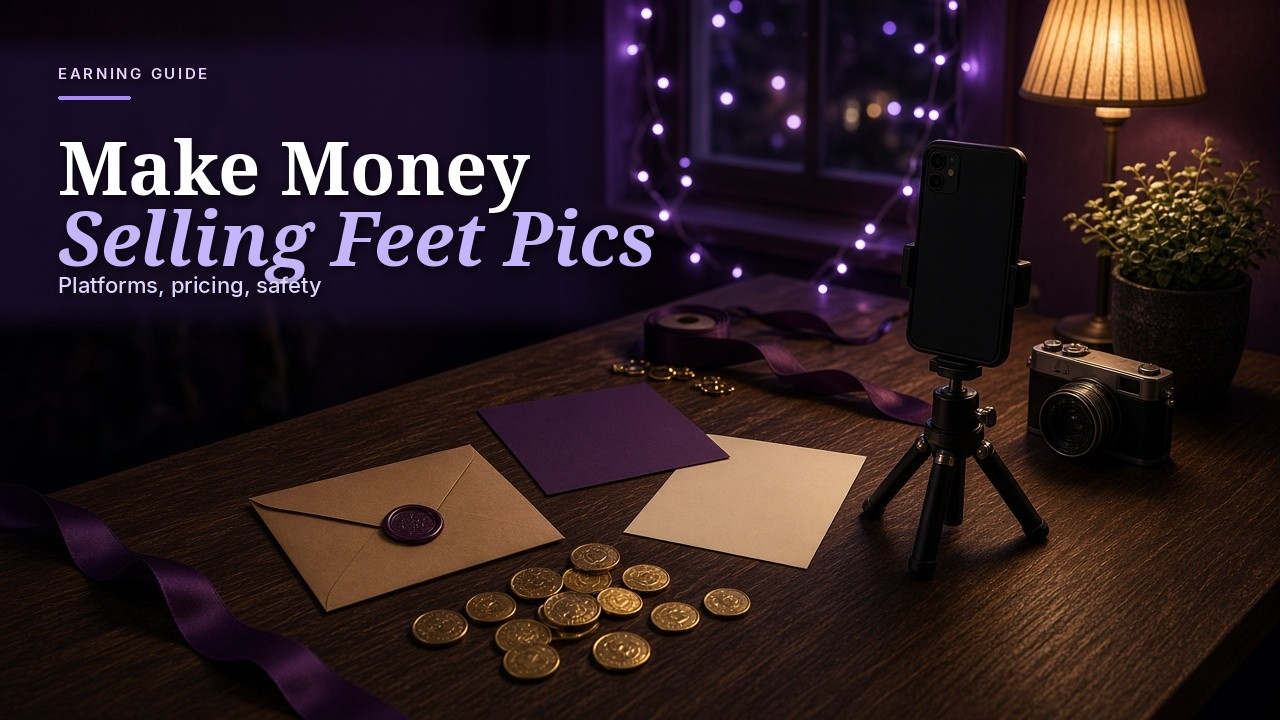
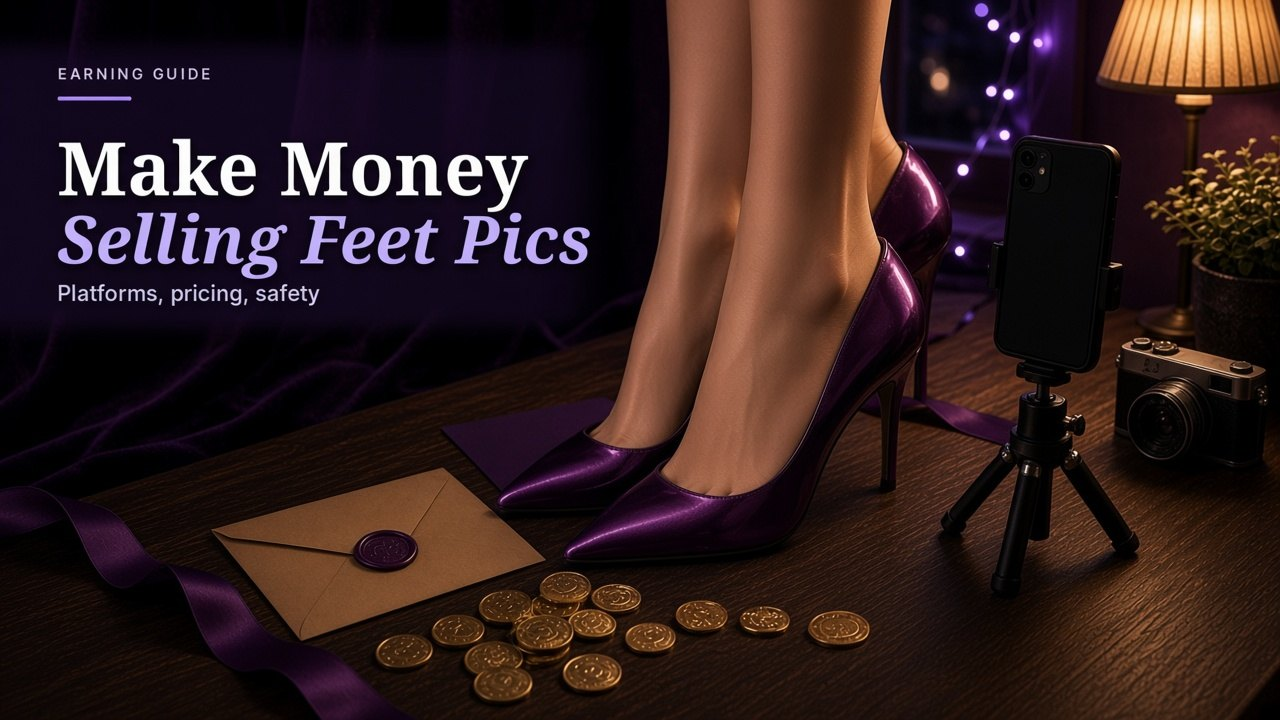
Match VIP card full-bleed covers to each guide title (#29)
* Use each VIP cover as the full card background.

The Sell Feet Pics hub cards were still white panels with a small top thumb. Each guide cover now fills the card, with a plum scrim so the number, title, blurb, and button stay readable.

* Match feet-guide covers to feet, not a generic desk.

How to Make Money Selling Feet Pics and Where to Sell Feet Pics for Free were plum still lifes with no feet. Those two covers now show feet in the same editorial style. The other 17 topic covers stay as they are.

---------

diff --git a/category/sell-feet-pics/index.html b/category/sell-feet-pics/index.html
@@ -470,15 +470,17 @@ details.faq>summary::after{display:none!important}
 .fee-compare td{color:var(--text);font-size:14.5px}
 .fee-compare tbody tr:nth-child(even){background:var(--bg-2)}
 .vip-grid{display:grid;grid-template-columns:repeat(3,minmax(0,1fr));gap:16px}
-.vip-rich{display:flex;flex-direction:column;background:var(--card);color:var(--text);border:1px solid var(--line);border-top:4px solid #7C3AED;border-radius:16px;padding:18px 18px 16px;min-height:100%}
+.vip-rich{position:relative;isolation:isolate;display:flex;flex-direction:column;overflow:hidden;color:#fff;border:1px solid rgba(196,181,253,.4);border-top:4px solid #C4B5FD;border-radius:16px;padding:18px 18px 16px;min-height:100%;background-color:#140c24;background-size:cover;background-position:center;background-repeat:no-repeat}
+.vip-rich::before{content:"";position:absolute;inset:0;z-index:0;pointer-events:none;background:linear-gradient(180deg,rgba(20,12,36,.42) 0%,rgba(20,12,36,.72) 46%,rgba(8,5,16,.92) 100%)}
+.vip-rich>*{position:relative;z-index:1}
 .vip-rich-top{display:flex;align-items:center;justify-content:space-between;margin-bottom:10px}
-.vip-num{font-family:var(--serif);font-size:22px;color:#6D28D9}
-.vip-badge{font-size:11px;font-weight:800;letter-spacing:.08em;text-transform:uppercase;color:#4c1d95;background:#ede9fe;border-radius:999px;padding:4px 8px}
-:root[data-theme="dark"] .vip-badge{color:#f5f3ff;background:#4c1d95}
+.vip-num{font-family:var(--serif);font-size:22px;color:#f5f3ff}
+.vip-badge{font-size:11px;font-weight:800;letter-spacing:.08em;text-transform:uppercase;color:#f5f3ff;background:rgba(76,29,149,.72);border:1px solid rgba(196,181,253,.55);border-radius:999px;padding:4px 8px}
+:root[data-theme="dark"] .vip-badge{color:#f5f3ff;background:rgba(76,29,149,.72)}
 .vip-rich h3{margin:0 0 8px;font-size:18px;line-height:1.3}
-.vip-rich h3 a{color:var(--text);text-decoration:none}
-.vip-rich h3 a:hover{color:#6D28D9}
-.vip-rich p{margin:0 0 14px;color:var(--muted);flex:1;font-size:14.5px}
+.vip-rich h3 a{color:#fff;text-decoration:none}
+.vip-rich h3 a:hover{color:#e9d5ff}
+.vip-rich p{margin:0 0 14px;color:#f4efff;flex:1;font-size:14.5px}
 .vip-read{align-self:flex-start;background:#7C3AED;color:#fff!important;text-decoration:none!important;font-weight:700;border-radius:999px;padding:8px 14px;font-size:13px}
 .vip-read:hover{background:#6D28D9}
 .related-cats{padding-top:10px}
@@ -604,7 +606,7 @@ details.faq>summary::after{display:none!important}
     </section>
     <section class="vip-guides" aria-labelledby="guides-h">
       <div class="section-head"><h2 id="guides-h">All VIP guides</h2></div>
-      <div class="vip-grid"><article class="vip-rich"><a class="vip-thumb" style="background-image:url('/best-platforms-for-content-creators/cover.jpg')" href="https://www.dark-ero.store/best-platforms-for-content-creators/"><img src="/best-platforms-for-content-creators/cover.jpg" alt="Best Creator Platforms for Beginners 2026: 12 Top Picks Ranked"></a><div class="vip-rich-top"><span class="vip-num">01</span><span class="vip-badge">VIP guide</span></div><h3><a href="https://www.dark-ero.store/best-platforms-for-content-creators/">Best Creator Platforms for Beginners 2026: 12 Top Picks Ranked</a></h3><p>New to creating? Compare 12 beginner-friendly creator platforms by fees, setup time and first-sale speed, from FeetFinder to OnlyFans, Fansly and Patreon.</p><a class="vip-read" href="https://www.dark-ero.store/best-platforms-for-content-creators/">Read guide</a></article><article class="vip-rich"><a class="vip-thumb" style="background-image:url('/best-sites-to-sell-feet-pics/cover.jpg')" href="https://www.dark-ero.store/best-sites-to-sell-feet-pics/"><img src="/best-sites-to-sell-feet-pics/cover.jpg" alt="Top 10 Best Sites to Sell Feet Pics in 2026: Fees &amp; Payouts"></a><div class="vip-rich-top"><span class="vip-num">02</span><span class="vip-badge">VIP guide</span></div><h3><a href="https://www.dark-ero.store/best-sites-to-sell-feet-pics/">Top 10 Best Sites to Sell Feet Pics in 2026: Fees &amp; Payouts</a></h3><p>The 10 best sites to sell feet pics in 2026, ranked by buyer traffic, seller fees, payout speed and safety, from FeetFinder and Fun With Feet to Fansly.</p><a class="vip-read" href="https://www.dark-ero.store/best-sites-to-sell-feet-pics/">Read guide</a></article><article class="vip-rich"><a class="vip-thumb" style="background-image:url('/spicyranked-review/cover.jpg')" href="https://www.dark-ero.store/spicyranked-review/"><img src="/spicyranked-review/cover.jpg" alt="SpicyRanked Review 2026: Scores, Rankings &amp; Trust"></a><div class="vip-rich-top"><span class="vip-num">03</span><span class="vip-badge">VIP guide</span></div><h3><a href="https://www.dark-ero.store/spicyranked-review/">SpicyRanked Review 2026: Scores, Rankings &amp; Trust</a></h3><p>SpicyRanked review 2026: how Heat Scores work, what best-of lists cover, affiliate disclosures, who the directory helps — plus trust and safety notes.</p><a class="vip-read" href="https://www.dark-ero.store/spicyranked-review/">Read guide</a></article><article class="vip-rich"><a class="vip-thumb" style="background-image:url('/how-to-make-money-selling-feet-pics/cover.jpg')" href="https://www.dark-ero.store/how-to-make-money-selling-feet-pics/"><img src="/how-to-make-money-selling-feet-pics/cover.jpg" alt="How to Make Money Selling Feet Pics (2026 Guide)"></a><div class="vip-rich-top"><span class="vip-num">04</span><span class="vip-badge">VIP guide</span></div><h3><a href="https://www.dark-ero.store/how-to-make-money-selling-feet-pics/">How to Make Money Selling Feet Pics (2026 Guide)</a></h3><p>Learn how to make money selling feet pics in 2026: realistic earnings, platforms, pricing, photo tips, payouts and safety for adults 18+.</p><a class="vip-read" href="https://www.dark-ero.store/how-to-make-money-selling-feet-pics/">Read guide</a></article><article class="vip-rich"><a class="vip-thumb" style="background-image:url('/how-to-sell-feet-pics-without-getting-scammed/cover.jpg')" href="https://www.dark-ero.store/how-to-sell-feet-pics-without-getting-scammed/"><img src="/how-to-sell-feet-pics-without-getting-scammed/cover.jpg" alt="How to Sell Feet Pics Without Getting Scammed (2026)"></a><div class="vip-rich-top"><span class="vip-num">05</span><span class="vip-badge">VIP guide</span></div><h3><a href="https://www.dark-ero.store/how-to-sell-feet-pics-without-getting-scammed/">How to Sell Feet Pics Without Getting Scammed (2026)</a></h3><p>How to sell feet pics without getting scammed in 2026: red flags, safe payments, ID checks vs buyer chats, recovery steps and safer marketplaces.</p><a class="vip-read" href="https://www.dark-ero.store/how-to-sell-feet-pics-without-getting-scammed/">Read guide</a></article><article class="vip-rich"><a class="vip-thumb" style="background-image:url('/jerkay-review/cover.jpg')" href="https://www.dark-ero.store/jerkay-review/"><img src="/jerkay-review/cover.jpg" alt="Jerkay Review 2026: Is This Free Gay Cam Chat Safe?"></a><div class="vip-rich-top"><span class="vip-num">06</span><span class="vip-badge">VIP guide</span></div><h3><a href="https://www.dark-ero.store/jerkay-review/">Jerkay Review 2026: Is This Free Gay Cam Chat Safe?</a></h3><p>Is Jerkay safe? Our 2026 review tests the free, no-signup gay cam chat for privacy, age checks and recording risks, plus safety tips and alternatives.</p><a class="vip-read" href="https://www.dark-ero.store/jerkay-review/">Read guide</a></article><article class="vip-rich"><a class="vip-thumb" style="background-image:url('/feetfinder-review/cover.jpg')" href="https://www.dark-ero.store/feetfinder-review/"><img src="/feetfinder-review/cover.jpg" alt="FeetFinder Review 2026: Is It Legit? Fees, Payouts &amp; Safety"></a><div class="vip-rich-top"><span class="vip-num">07</span><span class="vip-badge">VIP guide</span></div><h3><a href="https://www.dark-ero.store/feetfinder-review/">FeetFinder Review 2026: Is It Legit? Fees, Payouts &amp; Safety</a></h3><p>FeetFinder review 2026: is FeetFinder legit or a scam? Seller fees from $4.99, Basic vs Premium, $30 payout rules, ID verification plus safety advice.</p><a class="vip-read" href="https://www.dark-ero.store/feetfinder-review/">Read guide</a></article><article class="vip-rich"><a class="vip-thumb" style="background-image:url('/sugar-daddy-apps/cover.jpg')" href="https://www.dark-ero.store/sugar-daddy-apps/"><img src="/sugar-daddy-apps/cover.jpg" alt="Sugar Daddy Apps That Send Money Without Meeting (2026)"></a><div class="vip-rich-top"><span class="vip-num">08</span><span class="vip-badge">VIP guide</span></div><h3><a href="https://www.dark-ero.store/sugar-daddy-apps/">Sugar Daddy Apps That Send Money Without Meeting (2026)</a></h3><p>10 sugar daddy apps that send money without meeting, reviewed honestly: what each allows, who pays, how scams work and how to stay safe. Adults 18+ only.</p><a class="vip-read" href="https://www.dark-ero.store/sugar-daddy-apps/">Read guide</a></article><article class="vip-rich"><a class="vip-thumb" style="background-image:url('/sites-like-onlyfans/cover.jpg')" href="https://www.dark-ero.store/sites-like-onlyfans/"><img src="/sites-like-onlyfans/cover.jpg" alt="Sites Like OnlyFans to Make Money: 12 Real Options"></a><div class="vip-rich-top"><span class="vip-num">09</span><span class="vip-badge">VIP guide</span></div><h3><a href="https://www.dark-ero.store/sites-like-onlyfans/">Sites Like OnlyFans to Make Money: 12 Real Options</a></h3><p>Compare sites like OnlyFans to make money in 2026: platform cuts, payout minimums, content rules and which creator sites suit beginners, SFW or fetish.</p><a class="vip-read" href="https://www.dark-ero.store/sites-like-onlyfans/">Read guide</a></article><article class="vip-rich"><a class="vip-thumb" style="background-image:url('/sell-feet-pics/cover.jpg')" href="https://www.dark-ero.store/sell-feet-pics/"><img src="/sell-feet-pics/cover.jpg" alt="How to Sell Feet Pics in 2026: Platforms, Prices &amp; Safety"></a><div class="vip-rich-top"><span class="vip-num">10</span><span class="vip-badge">VIP guide</span></div><h3><a href="https://www.dark-ero.store/sell-feet-pics/">How to Sell Feet Pics in 2026: Platforms, Prices &amp; Safety</a></h3><p>Learn how to sell feet pics in 2026: where to sell, what to charge, how to find buyers, stay anonymous, avoid scams and handle taxes. Beginner-friendly guide.</p><a class="vip-read" href="https://www.dark-ero.store/sell-feet-pics/">Read guide</a></article><article class="vip-rich"><a class="vip-thumb" style="background-image:url('/where-to-sell-feet-pics-for-free/cover.jpg')" href="https://www.dark-ero.store/where-to-sell-feet-pics-for-free/"><img src="/where-to-sell-feet-pics-for-free/cover.jpg" alt="Where to Sell Feet Pics for Free: 2026 Sites, Fees &amp; Rules"></a><div class="vip-rich-top"><span class="vip-num">11</span><span class="vip-badge">VIP guide</span></div><h3><a href="https://www.dark-ero.store/where-to-sell-feet-pics-for-free/">Where to Sell Feet Pics for Free: 2026 Sites, Fees &amp; Rules</a></h3><p>Where to sell feet pics for free in 2026: which free feet pic selling platforms really cost nothing, what they take in commission, and which apps ban sales.</p><a class="vip-read" href="https://www.dark-ero.store/where-to-sell-feet-pics-for-free/">Read guide</a></article><article class="vip-rich"><a class="vip-thumb" style="background-image:url('/footly-review/cover.jpg')" href="https://www.dark-ero.store/footly-review/"><img src="/footly-review/cover.jpg" alt="Footly Review 2026: Seller Plans, Fees, Payouts &amp; Safety"></a><div class="vip-rich-top"><span class="vip-num">12</span><span class="vip-badge">VIP guide</span></div><h3><a href="https://www.dark-ero.store/footly-review/">Footly Review 2026: Seller Plans, Fees, Payouts &amp; Safety</a></h3><p>Footly review 2026: Rising, Spotlight and Icon plans, 5–15% sale fees, $10 weekly payouts, Ondato ID checks, privacy terms and how it compares to FeetFinder.</p><a class="vip-read" href="https://www.dark-ero.store/footly-review/">Read guide</a></article><article class="vip-rich"><a class="vip-thumb" style="background-image:url('/ablx-review/cover.jpg')" href="https://www.dark-ero.store/ablx-review/"><img src="/ablx-review/cover.jpg" alt="ABLX Review 2026: Credit Prices, Deepfake Risk and Safety"></a><div class="vip-rich-top"><span class="vip-num">13</span><span class="vip-badge">VIP guide</span></div><h3><a href="https://www.dark-ero.store/ablx-review/">ABLX Review 2026: Credit Prices, Deepfake Risk and Safety</a></h3><p>ABLX review: we check its uncensored AI video credits, $2.99 to $79.99 packs, real photo upload risks, age gate, privacy gaps and better alternatives.</p><a class="vip-read" href="https://www.dark-ero.store/ablx-review/">Read guide</a></article><article class="vip-rich"><a class="vip-thumb" style="background-image:url('/ai-angels-review/cover.jpg')" href="https://www.dark-ero.store/ai-angels-review/"><img src="/ai-angels-review/cover.jpg" alt="AI Angels Review 2026: Pricing, Credits, Safety and Risks"></a><div class="vip-rich-top"><span class="vip-num">14</span><span class="vip-badge">VIP guide</span></div><h3><a href="https://www.dark-ero.store/ai-angels-review/">AI Angels Review 2026: Pricing, Credits, Safety and Risks</a></h3><p>AI Angels review: we unpack its AI girlfriend roster, $3.99 to $39.99 plans, credits, 24-hour refunds, weak age gate and safer alternatives.</p><a class="vip-read" href="https://www.dark-ero.store/ai-angels-review/">Read guide</a></article><article class="vip-rich"><a class="vip-thumb" style="background-image:url('/kindroid-review/cover.jpg')" href="https://www.dark-ero.store/kindroid-review/"><img src="/kindroid-review/cover.jpg" alt="Kindroid Review 2026: Price, Memory, No Free Plan &amp; Safety"></a><div class="vip-rich-top"><span class="vip-num">15</span><span class="vip-badge">VIP guide</span></div><h3><a href="https://www.dark-ero.store/kindroid-review/">Kindroid Review 2026: Price, Memory, No Free Plan &amp; Safety</a></h3><p>Kindroid review: we cover its layered memory, calls, selfies, $13.99 Standard plan, costly add-ons, the end of the free tier, age checks and privacy.</p><a class="vip-read" href="https://www.dark-ero.store/kindroid-review/">Read guide</a></article><article class="vip-rich"><a class="vip-thumb" style="background-image:url('/secretundies-review/cover.jpg')" href="https://www.dark-ero.store/secretundies-review/"><img src="/secretundies-review/cover.jpg" alt="SecretUndies Review 2026: Seller Fees, Payouts and Safety"></a><div class="vip-rich-top"><span class="vip-num">16</span><span class="vip-badge">VIP guide</span></div><h3><a href="https://www.dark-ero.store/secretundies-review/">SecretUndies Review 2026: Seller Fees, Payouts and Safety</a></h3><p>SecretUndies review: we check seller plans from €4.97, 5% to 20% fees, €50 payouts, age checks, privacy and whether its tiny catalogue is worth it.</p><a class="vip-read" href="https://www.dark-ero.store/secretundies-review/">Read guide</a></article><article class="vip-rich"><a class="vip-thumb" style="background-image:url('/fapello-review/cover.jpg')" href="https://www.dark-ero.store/fapello-review/"><img src="/fapello-review/cover.jpg" alt="Fapello Review 2026: Is It Safe, Legal or Worth Avoiding?"></a><div class="vip-rich-top"><span class="vip-num">17</span><span class="vip-badge">VIP guide</span></div><h3><a href="https://www.dark-ero.store/fapello-review/">Fapello Review 2026: Is It Safe, Legal or Worth Avoiding?</a></h3><p>Fapello review: how its user uploads work, consent and copyright gaps, the Ofcom fine, pop-up ads, privacy risks and creator-paid alternatives.</p><a class="vip-read" href="https://www.dark-ero.store/fapello-review/">Read guide</a></article><article class="vip-rich"><a class="vip-thumb" style="background-image:url('/fikfap-review/cover.jpg')" href="https://www.dark-ero.store/fikfap-review/"><img src="/fikfap-review/cover.jpg" alt="FikFap Review 2026: Is It Safe, Free and Worth Using?"></a><div class="vip-rich-top"><span class="vip-num">18</span><span class="vip-badge">VIP guide</span></div><h3><a href="https://www.dark-ero.store/fikfap-review/">FikFap Review 2026: Is It Safe, Free and Worth Using?</a></h3><p>FikFap review: we explain its swipe-style adult short video feed, free access, web app vs risky APKs, privacy gaps, creator payouts and alternatives.</p><a class="vip-read" href="https://www.dark-ero.store/fikfap-review/">Read guide</a></article><article class="vip-rich"><a class="vip-thumb" style="background-image:url('/ourdream-ai-review/cover.jpg')" href="https://www.dark-ero.store/ourdream-ai-review/"><img src="/ourdream-ai-review/cover.jpg" alt="OurDream AI Review 2026: Price, DreamCoins, Safety &amp; Value"></a><div class="vip-rich-top"><span class="vip-num">19</span><span class="vip-badge">VIP guide</span></div><h3><a href="https://www.dark-ero.store/ourdream-ai-review/">OurDream AI Review 2026: Price, DreamCoins, Safety &amp; Value</a></h3><p>OurDream AI review: we break down its $19.99 plan, DreamCoin costs, NSFW chat, image and video tools, refund rules, age checks and top alternatives.</p><a class="vip-read" href="https://www.dark-ero.store/ourdream-ai-review/">Read guide</a></article></div>
+      <div class="vip-grid"><article class="vip-rich" style="background-image:url('/best-platforms-for-content-creators/cover.jpg')"><div class="vip-rich-top"><span class="vip-num">01</span><span class="vip-badge">VIP guide</span></div><h3><a href="https://www.dark-ero.store/best-platforms-for-content-creators/">Best Creator Platforms for Beginners 2026: 12 Top Picks Ranked</a></h3><p>New to creating? Compare 12 beginner-friendly creator platforms by fees, setup time and first-sale speed, from FeetFinder to OnlyFans, Fansly and Patreon.</p><a class="vip-read" href="https://www.dark-ero.store/best-platforms-for-content-creators/">Read guide</a></article><article class="vip-rich" style="background-image:url('/best-sites-to-sell-feet-pics/cover.jpg')"><div class="vip-rich-top"><span class="vip-num">02</span><span class="vip-badge">VIP guide</span></div><h3><a href="https://www.dark-ero.store/best-sites-to-sell-feet-pics/">Top 10 Best Sites to Sell Feet Pics in 2026: Fees &amp; Payouts</a></h3><p>The 10 best sites to sell feet pics in 2026, ranked by buyer traffic, seller fees, payout speed and safety, from FeetFinder and Fun With Feet to Fansly.</p><a class="vip-read" href="https://www.dark-ero.store/best-sites-to-sell-feet-pics/">Read guide</a></article><article class="vip-rich" style="background-image:url('/spicyranked-review/cover.jpg')"><div class="vip-rich-top"><span class="vip-num">03</span><span class="vip-badge">VIP guide</span></div><h3><a href="https://www.dark-ero.store/spicyranked-review/">SpicyRanked Review 2026: Scores, Rankings &amp; Trust</a></h3><p>SpicyRanked review 2026: how Heat Scores work, what best-of lists cover, affiliate disclosures, who the directory helps — plus trust and safety notes.</p><a class="vip-read" href="https://www.dark-ero.store/spicyranked-review/">Read guide</a></article><article class="vip-rich" style="background-image:url('/how-to-make-money-selling-feet-pics/cover.jpg')"><div class="vip-rich-top"><span class="vip-num">04</span><span class="vip-badge">VIP guide</span></div><h3><a href="https://www.dark-ero.store/how-to-make-money-selling-feet-pics/">How to Make Money Selling Feet Pics (2026 Guide)</a></h3><p>Learn how to make money selling feet pics in 2026: realistic earnings, platforms, pricing, photo tips, payouts and safety for adults 18+.</p><a class="vip-read" href="https://www.dark-ero.store/how-to-make-money-selling-feet-pics/">Read guide</a></article><article class="vip-rich" style="background-image:url('/how-to-sell-feet-pics-without-getting-scammed/cover.jpg')"><div class="vip-rich-top"><span class="vip-num">05</span><span class="vip-badge">VIP guide</span></div><h3><a href="https://www.dark-ero.store/how-to-sell-feet-pics-without-getting-scammed/">How to Sell Feet Pics Without Getting Scammed (2026)</a></h3><p>How to sell feet pics without getting scammed in 2026: red flags, safe payments, ID checks vs buyer chats, recovery steps and safer marketplaces.</p><a class="vip-read" href="https://www.dark-ero.store/how-to-sell-feet-pics-without-getting-scammed/">Read guide</a></article><article class="vip-rich" style="background-image:url('/jerkay-review/cover.jpg')"><div class="vip-rich-top"><span class="vip-num">06</span><span class="vip-badge">VIP guide</span></div><h3><a href="https://www.dark-ero.store/jerkay-review/">Jerkay Review 2026: Is This Free Gay Cam Chat Safe?</a></h3><p>Is Jerkay safe? Our 2026 review tests the free, no-signup gay cam chat for privacy, age checks and recording risks, plus safety tips and alternatives.</p><a class="vip-read" href="https://www.dark-ero.store/jerkay-review/">Read guide</a></article><article class="vip-rich" style="background-image:url('/feetfinder-review/cover.jpg')"><div class="vip-rich-top"><span class="vip-num">07</span><span class="vip-badge">VIP guide</span></div><h3><a href="https://www.dark-ero.store/feetfinder-review/">FeetFinder Review 2026: Is It Legit? Fees, Payouts &amp; Safety</a></h3><p>FeetFinder review 2026: is FeetFinder legit or a scam? Seller fees from $4.99, Basic vs Premium, $30 payout rules, ID verification plus safety advice.</p><a class="vip-read" href="https://www.dark-ero.store/feetfinder-review/">Read guide</a></article><article class="vip-rich" style="background-image:url('/sugar-daddy-apps/cover.jpg')"><div class="vip-rich-top"><span class="vip-num">08</span><span class="vip-badge">VIP guide</span></div><h3><a href="https://www.dark-ero.store/sugar-daddy-apps/">Sugar Daddy Apps That Send Money Without Meeting (2026)</a></h3><p>10 sugar daddy apps that send money without meeting, reviewed honestly: what each allows, who pays, how scams work and how to stay safe. Adults 18+ only.</p><a class="vip-read" href="https://www.dark-ero.store/sugar-daddy-apps/">Read guide</a></article><article class="vip-rich" style="background-image:url('/sites-like-onlyfans/cover.jpg')"><div class="vip-rich-top"><span class="vip-num">09</span><span class="vip-badge">VIP guide</span></div><h3><a href="https://www.dark-ero.store/sites-like-onlyfans/">Sites Like OnlyFans to Make Money: 12 Real Options</a></h3><p>Compare sites like OnlyFans to make money in 2026: platform cuts, payout minimums, content rules and which creator sites suit beginners, SFW or fetish.</p><a class="vip-read" href="https://www.dark-ero.store/sites-like-onlyfans/">Read guide</a></article><article class="vip-rich" style="background-image:url('/sell-feet-pics/cover.jpg')"><div class="vip-rich-top"><span class="vip-num">10</span><span class="vip-badge">VIP guide</span></div><h3><a href="https://www.dark-ero.store/sell-feet-pics/">How to Sell Feet Pics in 2026: Platforms, Prices &amp; Safety</a></h3><p>Learn how to sell feet pics in 2026: where to sell, what to charge, how to find buyers, stay anonymous, avoid scams and handle taxes. Beginner-friendly guide.</p><a class="vip-read" href="https://www.dark-ero.store/sell-feet-pics/">Read guide</a></article><article class="vip-rich" style="background-image:url('/where-to-sell-feet-pics-for-free/cover.jpg')"><div class="vip-rich-top"><span class="vip-num">11</span><span class="vip-badge">VIP guide</span></div><h3><a href="https://www.dark-ero.store/where-to-sell-feet-pics-for-free/">Where to Sell Feet Pics for Free: 2026 Sites, Fees &amp; Rules</a></h3><p>Where to sell feet pics for free in 2026: which free feet pic selling platforms really cost nothing, what they take in commission, and which apps ban sales.</p><a class="vip-read" href="https://www.dark-ero.store/where-to-sell-feet-pics-for-free/">Read guide</a></article><article class="vip-rich" style="background-image:url('/footly-review/cover.jpg')"><div class="vip-rich-top"><span class="vip-num">12</span><span class="vip-badge">VIP guide</span></div><h3><a href="https://www.dark-ero.store/footly-review/">Footly Review 2026: Seller Plans, Fees, Payouts &amp; Safety</a></h3><p>Footly review 2026: Rising, Spotlight and Icon plans, 5–15% sale fees, $10 weekly payouts, Ondato ID checks, privacy terms and how it compares to FeetFinder.</p><a class="vip-read" href="https://www.dark-ero.store/footly-review/">Read guide</a></article><article class="vip-rich" style="background-image:url('/ablx-review/cover.jpg')"><div class="vip-rich-top"><span class="vip-num">13</span><span class="vip-badge">VIP guide</span></div><h3><a href="https://www.dark-ero.store/ablx-review/">ABLX Review 2026: Credit Prices, Deepfake Risk and Safety</a></h3><p>ABLX review: we check its uncensored AI video credits, $2.99 to $79.99 packs, real photo upload risks, age gate, privacy gaps and better alternatives.</p><a class="vip-read" href="https://www.dark-ero.store/ablx-review/">Read guide</a></article><article class="vip-rich" style="background-image:url('/ai-angels-review/cover.jpg')"><div class="vip-rich-top"><span class="vip-num">14</span><span class="vip-badge">VIP guide</span></div><h3><a href="https://www.dark-ero.store/ai-angels-review/">AI Angels Review 2026: Pricing, Credits, Safety and Risks</a></h3><p>AI Angels review: we unpack its AI girlfriend roster, $3.99 to $39.99 plans, credits, 24-hour refunds, weak age gate and safer alternatives.</p><a class="vip-read" href="https://www.dark-ero.store/ai-angels-review/">Read guide</a></article><article class="vip-rich" style="background-image:url('/kindroid-review/cover.jpg')"><div class="vip-rich-top"><span class="vip-num">15</span><span class="vip-badge">VIP guide</span></div><h3><a href="https://www.dark-ero.store/kindroid-review/">Kindroid Review 2026: Price, Memory, No Free Plan &amp; Safety</a></h3><p>Kindroid review: we cover its layered memory, calls, selfies, $13.99 Standard plan, costly add-ons, the end of the free tier, age checks and privacy.</p><a class="vip-read" href="https://www.dark-ero.store/kindroid-review/">Read guide</a></article><article class="vip-rich" style="background-image:url('/secretundies-review/cover.jpg')"><div class="vip-rich-top"><span class="vip-num">16</span><span class="vip-badge">VIP guide</span></div><h3><a href="https://www.dark-ero.store/secretundies-review/">SecretUndies Review 2026: Seller Fees, Payouts and Safety</a></h3><p>SecretUndies review: we check seller plans from €4.97, 5% to 20% fees, €50 payouts, age checks, privacy and whether its tiny catalogue is worth it.</p><a class="vip-read" href="https://www.dark-ero.store/secretundies-review/">Read guide</a></article><article class="vip-rich" style="background-image:url('/fapello-review/cover.jpg')"><div class="vip-rich-top"><span class="vip-num">17</span><span class="vip-badge">VIP guide</span></div><h3><a href="https://www.dark-ero.store/fapello-review/">Fapello Review 2026: Is It Safe, Legal or Worth Avoiding?</a></h3><p>Fapello review: how its user uploads work, consent and copyright gaps, the Ofcom fine, pop-up ads, privacy risks and creator-paid alternatives.</p><a class="vip-read" href="https://www.dark-ero.store/fapello-review/">Read guide</a></article><article class="vip-rich" style="background-image:url('/fikfap-review/cover.jpg')"><div class="vip-rich-top"><span class="vip-num">18</span><span class="vip-badge">VIP guide</span></div><h3><a href="https://www.dark-ero.store/fikfap-review/">FikFap Review 2026: Is It Safe, Free and Worth Using?</a></h3><p>FikFap review: we explain its swipe-style adult short video feed, free access, web app vs risky APKs, privacy gaps, creator payouts and alternatives.</p><a class="vip-read" href="https://www.dark-ero.store/fikfap-review/">Read guide</a></article><article class="vip-rich" style="background-image:url('/ourdream-ai-review/cover.jpg')"><div class="vip-rich-top"><span class="vip-num">19</span><span class="vip-badge">VIP guide</span></div><h3><a href="https://www.dark-ero.store/ourdream-ai-review/">OurDream AI Review 2026: Price, DreamCoins, Safety &amp; Value</a></h3><p>OurDream AI review: we break down its $19.99 plan, DreamCoin costs, NSFW chat, image and video tools, refund rules, age checks and top alternatives.</p><a class="vip-read" href="https://www.dark-ero.store/ourdream-ai-review/">Read guide</a></article></div>
     </section>
     <section class="section related-cats"><div class="section-head"><h2>Related categories</h2></div><div class="tile-grid"><a class="tile" href="https://www.dark-ero.store/category/fetish/"><div class="ico">⛓</div><h3>Fetish &amp; Kink</h3></a><a class="tile" href="https://www.dark-ero.store/category/body-themes/"><div class="ico">👤</div><h3>Body &amp; Themes</h3></a></div></section>
   </div>

diff --git a/assets/site-type.css b/assets/site-type.css
@@ -65,18 +65,29 @@ section.takeaways{
 main .glance h2,
 section.takeaways h2{color:#6d28d9}
 .g-top,.g-top b,.g-top p{color:#fff}
-.vip-rich .vip-thumb{
-  display:block;
-  margin:0 0 14px;
-  border-radius:12px;
+.vip-rich{
+  position:relative;
+  isolation:isolate;
   overflow:hidden;
-  aspect-ratio:16/8;
+  color:#fff;
   background-color:#140c24;
   background-size:cover;
   background-position:center;
   background-repeat:no-repeat;
 }
-.vip-rich .vip-thumb img{width:100%;height:100%;object-fit:cover;object-position:center;display:block}
+.vip-rich::before{
+  content:"";
+  position:absolute;
+  inset:0;
+  z-index:0;
+  pointer-events:none;
+  background:linear-gradient(180deg,rgba(20,12,36,.42) 0%,rgba(20,12,36,.72) 46%,rgba(8,5,16,.92) 100%);
+}
+.vip-rich>*{position:relative;z-index:1}
+.vip-rich h3 a{color:#fff}
+.vip-rich h3 a:hover{color:#e9d5ff}
+.vip-rich p{color:#f4efff}
+.vip-num{color:#f5f3ff}
 .pg-hero .cover{margin:22px auto 0;max-width:760px;border-radius:16px;overflow:hidden;border:1px solid rgba(255,255,255,.22);box-shadow:0 16px 40px rgba(0,0,0,.28)}
 .pg-hero .cover img{width:100%;height:auto;display:block;max-height:460px;object-fit:cover;background:#1b1430}
 /* Directory column scroller keeps the UI face and its bold labels. */
